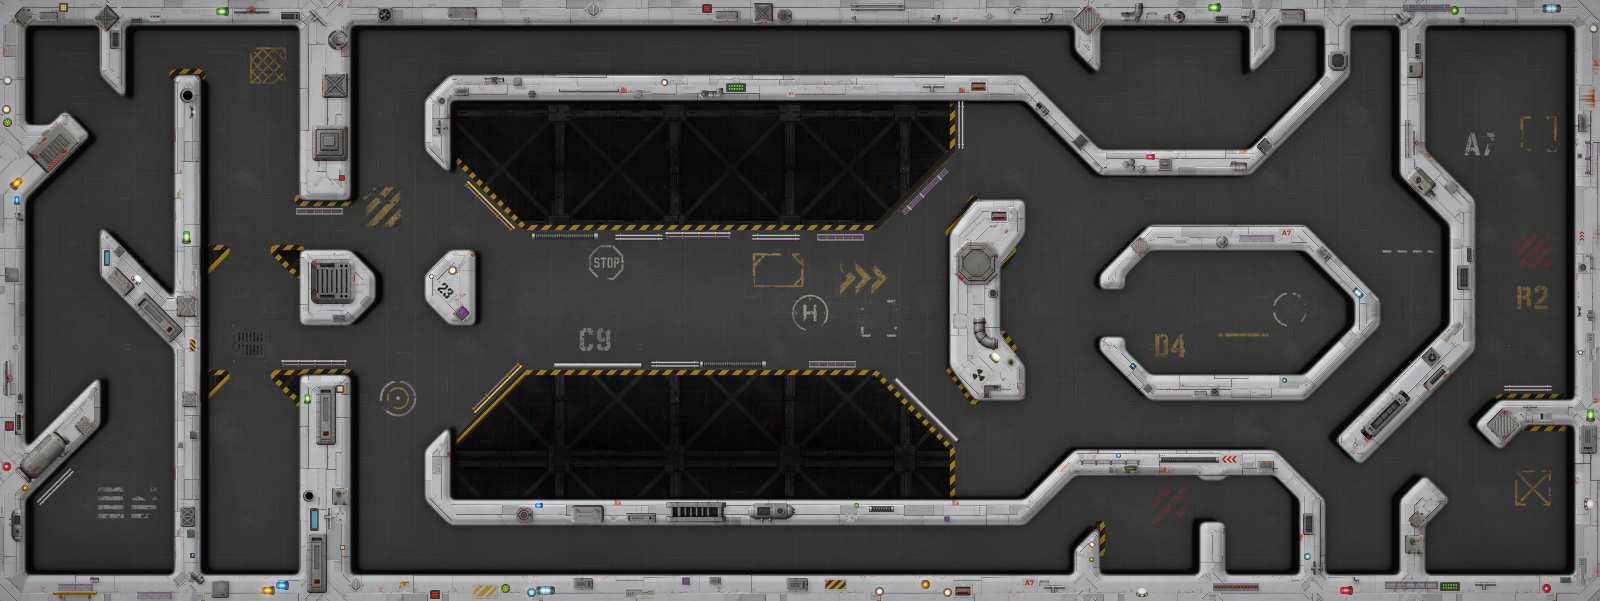
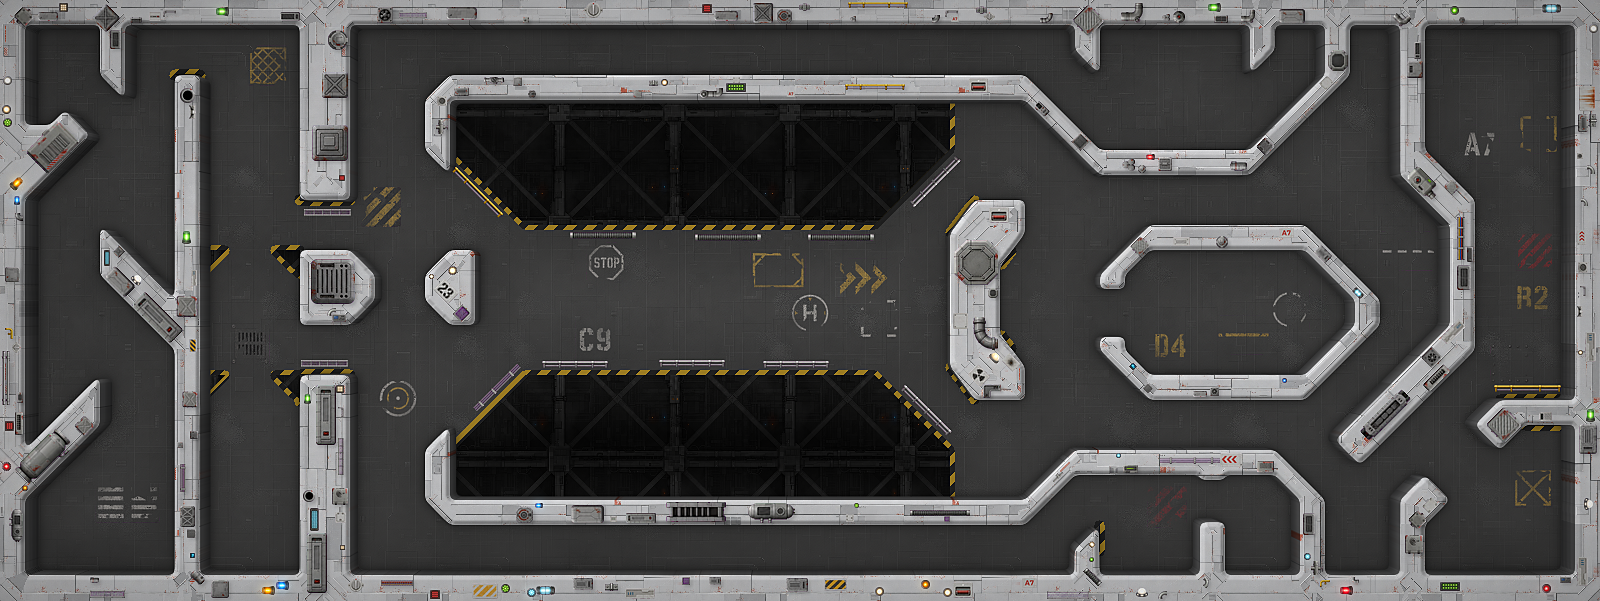
Art pipeline: crisp edges, textured stepped wall sides, stripe options, rails per edge, re-place by type
- tools/art/options.json: the bake's options and defaults (edges, sides, hazard
  stripes), overridable per level in level.json art; the editor shows a field
  for each in the Art pipeline section.
- Wall mask keeps a ~1 px anti-aliased edge after rounding, plus an unsharp pass.
- Wall sides are darkened copies of the wall art scaled toward a camera point,
  as the originals were made, instead of flat black.
- One rail sprite per continuous chasm edge.
- bake.py --only / editor checkboxes: re-place chosen decor types, keep the rest.
- Bridge re-baked (rails re-placed for the per-edge rule).

Claude-Session: https://claude.ai/code/session_01H47hBDPQBM8s5zFvCsXCoj

diff --git a/src/editor/editor.js b/src/editor/editor.js
@@ -48,6 +48,8 @@ const NODE = 'game objects/node';
 // decor (decor.json) is baked into the background by tools/art/bake.py; sprites live here
 const DECOR_DIR = 'tools/art/parts/decor/';
 // how each decor category is drawn by the bake when placed by hand
+// the decor types the art pipeline places (tools/art/bake.py CATEGORIES)
+const DECOR_TYPES = ['floorpaint', 'rails', 'greebles', 'vents', 'wallmarks', 'lights'];
 const DECOR_DEFAULTS = { floorpaint: { effect: 'paint' }, greebles: { effect: 'shadow', strength: 0.35 }, greebles2: { effect: 'shadow', strength: 0.35 }, vents: { effect: 'shadow', strength: 0.3 }, rails: { effect: 'shadow', strength: 0.25 }, lights: { effect: 'glow', strength: 0.9 } };
 const T = (d) => d - 16384; // timeline depths sit 16384 below script depths, as in Flash
 const TOOLS = [
@@ -1381,11 +1383,21 @@ class Editor {
         el('button', { onclick: () => this.change(['level.json'], () => { L.settings = { ...(L.settings || {}), art: { kit: 'bridge', seed: 1 + Math.floor(Math.random() * 9999) } }; }, { reload: false }) }, 'Generate this level\'s art'));
       return box;
     }
-    const setArt = (o) => this.change(['level.json'], () => { L.settings = { ...L.settings, art: { ...art, ...o } }; }, { reload: false });
+    const setArt = (o) => this.change(['level.json'], () => {
+      const a = { ...art, ...o };
+      for (const k of Object.keys(a)) if (a[k] === undefined) delete a[k];
+      L.settings = { ...L.settings, art: a };
+    }, { reload: false });
     const running = this.art || (this.server && this.server.art);
     const off = !this.writable || !!running;
     const btn = (label, step, tip) => el('button', { disabled: off, title: tip, onclick: () => this.runArt(step) }, label);
     const n = this.layerCount('decor');
+    if (!this.artOptions) {
+      this.artOptions = fetch('tools/art/options.json', { cache: 'no-store' }).then((r) => r.json())
+        .then((j) => { this.artOptions = j; this.refreshPanel(); }).catch((e) => { this.artOptions = {}; this.status('Art options: ' + e.message, true); });
+    }
+    const only = this.placeOnly ||= new Set(DECOR_TYPES);
+    const all = only.size === DECOR_TYPES.length;
     box.append(
       el('div', { class: 'le-row' }, 'Kit ', el('select', { title: 'the tile set: floor, wall and chasm textures and the decor sheets (tools/art/parts)', onchange: (ev) => setArt({ kit: ev.target.value }) },
         ...['bridge'].map((kit) => el('option', { value: kit, selected: art.kit === kit }, kit))),
@@ -1394,13 +1406,37 @@ class Editor {
       el('div', { class: 'le-row' },
         btn('Bake art', 'bake', 'Save, then redraw background.png from the collision map and decor.json as they are'),
         this.confirmPlace
-          ? el('button', { disabled: off, class: 'le-danger', title: 'decor.json is replaced; Undo cannot bring the old layout back (git can)', onclick: () => { this.confirmPlace = false; this.runArt('all'); } }, `Replace ${n} decor and bake?`)
-          : el('button', { disabled: off, title: 'Save, then lay out new decor from the seed (replacing decor.json, hand edits too) and bake', onclick: () => { this.confirmPlace = true; this.refreshPanel(); } }, 'Re-place decor + bake'),
+          ? el('button', { disabled: off, class: 'le-danger', title: 'decor.json is replaced; Undo cannot bring the old layout back (git can)', onclick: () => { this.confirmPlace = false; this.runArt('all'); } }, all ? `Replace all ${n} decor and bake?` : `Replace ${this.list('decor').filter((e) => only.has(decorType(e.sprite))).length} ${[...only].join(', ')} and bake?`)
+          : el('button', { disabled: off || !only.size, title: 'Save, then lay out new decor of the ticked types from the seed (replacing those in decor.json, hand edits too; the other types stay) and bake', onclick: () => { this.confirmPlace = true; this.refreshPanel(); } }, all ? 'Re-place decor + bake' : `Re-place ${only.size} type${only.size > 1 ? 's' : ''} + bake`),
         this.confirmPlace ? el('button', { onclick: () => { this.confirmPlace = false; this.refreshPanel(); } }, 'Cancel') : ''),
+      el('div', { class: 'le-row le-types', title: 'which decor types Re-place lays out again; the others keep their placements' }, 'Re-place: ',
+        ...DECOR_TYPES.map((t) => el('label', {}, el('input', { type: 'checkbox', checked: only.has(t), onchange: (ev) => { if (ev.target.checked) only.add(t); else only.delete(t); this.confirmPlace = false; this.refreshPanel(); } }), t))),
       el('div', { class: 'le-tip' }, running ? `Running ${running.step === 'all' ? 're-place + bake' : running.step} on ${running.level || L.folder}… (about 10 s)`
         : !this.writable ? 'Needs the local server (npm run edit).'
           : `Runs tools/art/bake.py on your machine, rebuilds, and reloads the editor with the new art. ${n} decor placements; show them with K.`));
     if (this.artLog) box.append(el('pre', { class: 'le-artlog' }, this.artLog));
+    // the bake's options (tools/art/options.json), saved in level.json art.<group>.<option>
+    if (this.artOptions && !(this.artOptions instanceof Promise)) {
+      for (const [group, spec] of Object.entries(this.artOptions)) {
+        const cur = art[group] || {};
+        const changed = Object.keys(cur).length;
+        const set = (key, v) => setArt({ [group]: (() => { const o = { ...cur }; if (v === spec.options[key].default) delete o[key]; else o[key] = v; return Object.keys(o).length ? o : undefined; })() });
+        const rows = Object.entries(spec.options).map(([key, o]) => {
+          const v = cur[key] ?? o.default;
+          const input = o.type === 'colour'
+            ? el('input', { type: 'color', value: v, onchange: (ev) => set(key, ev.target.value) })
+            : o.type === 'text'
+              ? el('input', { value: v, placeholder: 'none', onchange: (ev) => set(key, ev.target.value.trim()) })
+              : el('input', { type: 'number', min: o.min, max: o.max, step: o.step, value: v, onchange: (ev) => { const x = +ev.target.value; if (isFinite(x)) set(key, Math.min(o.max ?? x, Math.max(o.min ?? x, x))); } });
+          return el('label', { class: 'le-opt' + (key in cur ? ' set' : ''), title: (o.tip || '') + ` (default ${o.default === '' ? 'none' : o.default})` }, o.label, input);
+        });
+        box.append(el('details', { class: 'le-optgroup', open: !!(this.openOpts && this.openOpts.has(group)), ontoggle: (ev) => { (this.openOpts ||= new Set())[ev.target.open ? 'add' : 'delete'](group); } },
+          el('summary', {}, spec.label + (changed ? ` (${changed} changed)` : '')),
+          spec.tip ? el('div', { class: 'le-tip' }, spec.tip) : '', el('div', { class: 'le-opts' }, ...rows),
+          changed ? el('button', { onclick: () => setArt({ [group]: undefined }) }, 'Defaults') : ''));
+      }
+      box.append(el('div', { class: 'le-tip' }, 'Options take effect on the next Bake art.'));
+    }
     return box;
   }
 
@@ -1414,7 +1450,7 @@ class Editor {
     this.art = { step, level: L.folder, started: Date.now() };
     this.status(`Art: running ${step} on ${L.folder}…`);
     this.refreshPanel();
-    const r = await fetch('__art', { method: 'POST', headers: { 'Content-Type': 'application/json' }, body: JSON.stringify({ level: L.folder, step }) })
+    const r = await fetch('__art', { method: 'POST', headers: { 'Content-Type': 'application/json' }, body: JSON.stringify({ level: L.folder, step, only: step !== 'bake' && this.placeOnly && this.placeOnly.size < DECOR_TYPES.length ? [...this.placeOnly] : undefined }) })
       .then((x) => x.json()).catch((e) => ({ ok: false, log: e.message }));
     this.art = null;
     if (!r.ok) {
@@ -1570,6 +1606,11 @@ function decorBounds(e, size) {
   const w = size.w * s, h = size.h * s;
   const bw = Math.abs(w * Math.cos(a)) + Math.abs(h * Math.sin(a)), bh = Math.abs(w * Math.sin(a)) + Math.abs(h * Math.cos(a));
   return [e.x - bw / 2, e.y - bh / 2, e.x + bw / 2, e.y + bh / 2];
+}
+
+function decorType(sprite) {
+  const c = sprite.split('/')[0];
+  return c === 'greebles2' ? 'greebles' : c;
 }
 
 function decorColour(sprite) {
@@ -1734,6 +1775,13 @@ const CSS = `
 #level-editor .le-decor-pal img, #level-editor .le-decor-thumb { max-width: 100%; max-height: 100%; object-fit: contain; display: block; margin: auto; }
 #level-editor .le-decor-thumb { width: 48px; height: 48px; background: #1b2b2b; border-radius: 3px; }
 #level-editor .le-editing { color: #4fc; }
+#level-editor .le-types { flex-wrap: wrap; gap: 2px 8px; font-size: 11px; }
+#level-editor .le-optgroup { margin: 4px 0; }
+#level-editor .le-optgroup summary { font-size: 12px; color: #9cd; }
+#level-editor .le-opts { display: grid; grid-template-columns: 1fr 1fr; gap: 3px 8px; }
+#level-editor .le-opt { display: flex; flex-direction: column; font-size: 10px; color: #9ab; }
+#level-editor .le-opt.set { color: #fd6; }
+#level-editor .le-opt input { width: 100%; box-sizing: border-box; }
 #level-editor .le-danger { background: #7a2a2a; color: #fff; }
 #level-editor .le-artlog { max-height: 160px; overflow: auto; white-space: pre-wrap; font-size: 10px; background: #000a; padding: 4px; color: #fcc; }
 #level-editor .le-stats div { margin: 1px 0; }

diff --git a/tools/art/bake.py b/tools/art/bake.py
@@ -62,30 +62,54 @@ def level_paths(folder):
     return d, art
 
 
+# ---------------------------------------------------------------- options
+OPTIONS = json.load(open(os.path.join(os.path.dirname(__file__), 'options.json')))
+
+
+def options(art):
+    """The art settings with every option filled in from tools/art/options.json."""
+    o = {}
+    for group, spec in OPTIONS.items():
+        given = art.get(group) or {}
+        o[group] = {k: given.get(k, v['default']) for k, v in spec['options'].items()}
+    return o
+
+
+def hex_rgb(h):
+    h = h.lstrip('#')
+    return np.array([int(h[i:i + 2], 16) / 255 for i in (0, 2, 4)], np.float32)
+
+
 # ---------------------------------------------------------------- geometry
 class Geometry:
     """Everything derived from the collision map that both steps need."""
 
-    def __init__(self, path):
+    def __init__(self, path, opts):
         with Image.open(path) as im: self.W, self.H = W, H = im.size
         self.wall, self.chasm = coverage(path, W, H)
         self.wallb, self.chasmb = self.wall > 0.5, self.chasm > 0.5
         self.yy, self.xx = np.mgrid[0:H, 0:W].astype(np.float32)
-        # rounded art mask: convex corners softened, inside corners filleted
-        self.wr = np.clip((blur(self.wall, 3.2) - 0.5) * 3.0 + 0.5, 0, 1)
+        # rounded art mask: corners rounded by blurring, then a steep ramp so the edge
+        # stays crisp (aa px of anti-aliasing, like the originals)
+        e = opts['edges']
+        if e['round'] > 0:
+            k = np.sqrt(2 * np.pi) * e['round'] / max(0.3, e['aa'])
+            self.wr = np.clip((blur(self.wall, e['round']) - 0.5) * k + 0.5, 0, 1)
+        else:
+            self.wr = self.wall.astype(np.float32)
         self.wrb = self.wr > 0.5
-        # wall sides, extruded toward the map centre
-        CX, CY, K, MAXOFF = W / 2, H / 2, 0.02, 9.0
-        vx = np.clip(K * (self.xx - CX), -MAXOFF, MAXOFF)
-        vy = np.clip(K * (self.yy - CY), -MAXOFF, MAXOFF)
-        side = np.zeros((H, W), np.float32); st = np.ones((H, W), np.float32)
-        for i in range(24, 0, -1):
-            t = i / 24
-            s = ndi.map_coordinates(self.wr, [self.yy + t * vy, self.xx + t * vx], order=1, mode='nearest')
-            st[s > 0.5] = t; side = np.maximum(side, s)
-        self.side_raw = side
-        self.side = blur(side * (1 - self.wr), 0.6)
-        self.st = st
+        # wall sides: copies of the walls scaled down step by step toward the camera point
+        sd = opts['sides']
+        self.cx, self.cy = W * sd['cx'], H * sd['cy']
+        self.steps = []          # (sample coordinates, mask) per copy, nearest first
+        side = np.zeros((H, W), np.float32)
+        for i in range(1, int(sd['steps']) + 1):
+            f = 1 + sd['scale'] * i  # sample the wall at c + f (p - c): the wall shrunk by 1/f
+            coords = [self.cy + f * (self.yy - self.cy), self.cx + f * (self.xx - self.cx)]
+            m = ndi.map_coordinates(self.wr, coords, order=1, mode='constant')
+            self.steps.append((coords, m))
+            side = np.maximum(side, m)
+        self.side = side * (1 - self.wr)
         # distance into the wall art and each wall's direction (0 horiz, 1 diag, 2 vert, 3 other diag)
         self.dist = ndi.distance_transform_edt(self.wrb).astype(np.float32)
         ny, nx = np.gradient(blur(self.dist, 4))
@@ -117,7 +141,7 @@ def tiled(g, t, scale, angle=0.0, off=(0.0, 0.0)):
     return np.stack([ndi.map_coordinates(t[..., c], [v % h, u % w], order=1, mode='grid-wrap') for c in range(3)], -1)
 
 
-def base_art(g, seed):
+def base_art(g, seed, opts):
     """Floor, chasms and walls, before decor."""
     W, H, xx, yy = g.W, g.H, g.xx, g.yy
     rng = np.random.default_rng(seed)
@@ -134,30 +158,45 @@ def base_art(g, seed):
     ch = tiled(g, chasm_t, 0.45, off=(37, 11))
     ch = ch * (0.9 - 0.5 * np.clip(inside / 70, 0, 1))[..., None]
     img = img * (1 - g.chasm[..., None]) + ch * g.chasm[..., None]
-    lip = (ndi.distance_transform_edt(~g.chasmb) <= 5) & ~g.chasmb & ~g.wallb
-    stripe = ((xx + yy) % 14 < 7)
-    lipf = blur(lip, 0.5)
-    hz = np.where(stripe[..., None], np.array([0.72, 0.56, 0.11]), np.array([0.09, 0.09, 0.09]))
-    img = img * (1 - 0.75 * lipf[..., None]) + hz * 0.75 * lipf[..., None]
-    # wall sides and ambient occlusion
+    # hazard stripes on the floor around chasms
+    hzo = opts['hazard']
+    if hzo['width'] > 0 and hzo['opacity'] > 0:
+        lip = (ndi.distance_transform_edt(~g.chasmb) <= hzo['width']) & ~g.chasmb & ~g.wallb
+        lipf = blur(lip, 0.4) * hzo['opacity']
+        a = np.radians(hzo['angle'])
+        if hzo.get('texture'):
+            hz = tiled(g, load(os.path.splitext(hzo['texture'])[0]), 1.0, a)
+        else:
+            u = xx * np.cos(a) + yy * np.sin(a)
+            stripe = (u % hzo['period']) < hzo['period'] / 2
+            hz = np.where(stripe[..., None], hex_rgb(hzo['colourA']), hex_rgb(hzo['colourB']))
+        img = img * (1 - lipf[..., None]) + hz * lipf[..., None]
+    # ambient occlusion where the walls meet the floor
     wr, side = g.wr, g.side
     ao = blur(np.maximum(side, wr), 5)
     img *= (1 - 0.5 * ao * (1 - wr) * (1 - side))[..., None]
-    scol = 0.025 + 0.05 * (1 - g.st) ** 3
-    img = img * (1 - side[..., None]) + scol[..., None] * side[..., None]
     # wall tops: the plate texture, run along each wall's direction
     top = np.zeros_like(img)
     for k in range(4):
         tk = tiled(g, wall_t, 0.33, k * np.pi / 4, off=(k * 131.0, k * 57.0))
         top += tk * (g.q == k)[..., None]
     top = top / top[g.wrb].mean() * 0.74
-    # soft bevel lit from the top-left
-    hgt = np.clip(g.dist / 7.0, 0, 1); hgt = blur(hgt * hgt * (3 - 2 * hgt), 1.2)
+    # bevel lit from the top-left, over a narrow band so the edge stays crisp
+    hgt = np.clip(g.dist / 5.0, 0, 1); hgt = blur(hgt * hgt * (3 - 2 * hgt), 0.7)
     gy, gx = np.gradient(hgt)
     nz = 0.18
     lam = (-gx * -0.55 - gy * -0.6 + nz * 0.58) / np.sqrt(gx * gx + gy * gy + nz * nz)
     top *= (0.70 + 0.42 * lam)[..., None]
-    top *= (1 - 0.18 * np.clip(1 - g.dist / 1.5, 0, 1))[..., None]   # crisp dark edge line
+    top *= (1 - 0.22 * np.clip(1 - g.dist / 1.2, 0, 1))[..., None]   # crisp dark edge line
+    # wall sides: darkened copies of the wall art, each scaled down a little more toward
+    # the camera point, deepest first, so the sides keep the plates' texture
+    sd = opts['sides']
+    for i in range(len(g.steps) - 1, -1, -1):
+        coords, m = g.steps[i]
+        copy = np.stack([ndi.map_coordinates(top[..., c], coords, order=1, mode='nearest') for c in range(3)], -1)
+        copy *= sd['darken'] * sd['fade'] ** i
+        m = m[..., None]
+        img = img * (1 - m) + copy * m
     return img * (1 - wr[..., None]) + top * wr[..., None]
 
 
@@ -191,7 +230,17 @@ PASSES = [
 ]
 
 
-def place_decor(g, seed):
+CATEGORIES = ('floorpaint', 'rails', 'greebles', 'vents', 'wallmarks', 'lights')
+
+
+def category(sprite_path):
+    c = sprite_path.split('/')[0]
+    return 'greebles' if c == 'greebles2' else c
+
+
+def place_decor(g, seed, only=None, keep=()):
+    """New decor placements. With `only` (a set of categories) just those are placed, after
+    `keep` (the existing placements of the other categories, which they avoid)."""
     index = json.load(open(os.path.join(DECOR, 'index.json')))
     cats = {c: [it['file'] for it in items] for c, items in index.items()}
     cats['greebles'] = cats.get('greebles', []) + cats.get('greebles2', [])
@@ -205,10 +254,25 @@ def place_decor(g, seed):
     surfaces['lip'] = (cd <= 16) & (cd >= 8) & ~g.wallb
     ly, lx = np.gradient(blur(cd, 3))
     orients = {'lip': ndi.median_filter(np.round((np.arctan2(ly, lx) + np.pi / 2) / (np.pi / 4)).astype(int) % 4, 5)}
+    # one rail style per continuous chasm edge: each straight run of the lip band
+    edge_ids = np.zeros((H, W), np.int32)
+    for k in range(4):
+        lab, n = ndi.label(surfaces['lip'] & (orients['lip'] == k))
+        edge_ids[lab > 0] = lab[lab > 0] + k * 100000
+    edge_pick = {}
     used = np.zeros((H, W), bool)
-    out = []
+    out = list(keep)
+    for e in keep:  # what stays takes up its space
+        try: sp = sprite(e['sprite'])
+        except OSError: continue
+        a = np.array(xform(sp, float(e.get('scale', 1)), float(e.get('rotation', 0))))[..., 3] > 40
+        sh, sw = a.shape
+        x0, y0 = int(e['x'] - sw / 2), int(e['y'] - sh / 2)
+        sx0, sy0, sx1, sy1 = max(0, -x0), max(0, -y0), min(sw, W - x0), min(sh, H - y0)
+        if sx1 > sx0 and sy1 > sy0: used[y0 + sy0:y0 + sy1, x0 + sx0:x0 + sx1] |= a[sy0:sy1, sx0:sx1]
 
     for cat, count, surf, short, long_max, o in PASSES:
+        if only is not None and cat not in only: continue
         surface = surfaces[surf]
         files = [f for f in cats.get(cat, []) if max(sprite(f).size) >= o.get('min_aspect', 0) * min(sprite(f).size)]
         pts = np.argwhere(surface)
@@ -223,6 +287,8 @@ def place_decor(g, seed):
             if isinstance(short, tuple): s_ = min(s_, short[2])
             if s_ < 5: continue
             k = int(rng.integers(len(files)))
+            if surf == 'lip' and edge_ids[cy, cx]:  # the edge's rail, picked by its first one
+                k = edge_pick.setdefault(int(edge_ids[cy, cx]), k)
             sp = sprite(files[k])
             w, h = sp.size
             turn = 90 if h > w and along else 0
@@ -259,9 +325,9 @@ def worn(h, w, seed):
     return chips * scuff * speck
 
 
-def bake(g, decor, seed):
+def bake(g, decor, seed, opts):
     W, H = g.W, g.H
-    img = np.clip(base_art(g, seed), 0, 1)
+    img = np.clip(base_art(g, seed, opts), 0, 1)
     shadow = np.zeros((H, W), np.float32)
     bloom = np.zeros((H, W, 3), np.float32)
     for i, e in enumerate(decor):
@@ -296,6 +362,8 @@ def bake(g, decor, seed):
     img *= (1 - 0.5 * blur(np.clip(ndi.shift(shadow, (2, 2), order=0), 0, 1), 1.5))[..., None]
     img += np.stack([blur(bloom[..., c], 5) for c in range(3)], -1) * 1.5
     img *= (1 - 0.12 * (((g.xx / W - 0.5) * 2) ** 4 + ((g.yy / H - 0.5) * 2) ** 4))[..., None]
+    sh = opts['edges']['sharpen']
+    if sh > 0: img = img + sh * (img - np.stack([blur(img[..., c], 1.0) for c in range(3)], -1))
     return (np.clip(img, 0, 1) * 255 + 0.5).astype(np.uint8)
 
 
@@ -311,18 +379,27 @@ def main():
     ap.add_argument('level', help='level folder, e.g. 03_Bridge')
     ap.add_argument('step', choices=['place', 'bake', 'all'])
     ap.add_argument('--seed', type=int, help='seed for decor placement (default: level.json art.seed)')
+    ap.add_argument('--only', help='place only these decor types, comma separated (' + ', '.join(CATEGORIES) + '); the others in decor.json are kept')
     args = ap.parse_args()
     d, art = level_paths(args.level)
+    opts = options(art)
     seed = int(art.get('seed', 2012))
-    g = Geometry(os.path.join(d, 'collision.png'))
+    g = Geometry(os.path.join(d, 'collision.png'), opts)
     decor_path = os.path.join(d, 'decor.json')
     if args.step in ('place', 'all'):
-        decor = place_decor(g, args.seed if args.seed is not None else seed)
+        only, keep = None, []
+        if args.only:
+            only = {c.strip() for c in args.only.split(',') if c.strip()}
+            bad = only - set(CATEGORIES)
+            if bad: sys.exit(f'unknown decor types: {", ".join(sorted(bad))}; known: {", ".join(CATEGORIES)}')
+            old = json.load(open(decor_path)) if os.path.exists(decor_path) else []
+            keep = [e for e in old if category(e['sprite']) not in only]
+        decor = place_decor(g, args.seed if args.seed is not None else seed, only, keep)
         write_decor(decor_path, decor)
         print(f'wrote levels/{args.level}/decor.json ({len(decor)} placements)')
     if args.step in ('bake', 'all'):
         decor = json.load(open(decor_path)) if os.path.exists(decor_path) else []
-        out = bake(g, decor, seed)
+        out = bake(g, decor, seed, opts)
         Image.fromarray(out, 'RGB').convert('RGBA').save(os.path.join(d, 'background.png'), optimize=True)
         print(f'wrote levels/{args.level}/background.png ({len(decor)} decor placements)')
 

diff --git a/levels/README.md b/levels/README.md
@@ -87,4 +87,8 @@ A level with `art` in its `level.json` gets its `background.png` generated from 
 1. **place**: lays out decor from the seed (floor paint, rails on chasm lips, greebles, vents, wall marks, lights) and writes `decor.json`, replacing what was there.
 2. **bake**: draws the floor, chasm and walls of the kit from `collision.png`, then each `decor.json` placement with its effect, and writes `background.png`.
 
-`python tools/art/bake.py 03_Bridge bake` (or `place`, or `all`; `--seed N` overrides the seed). In the editor, with `npm run edit`, the **Art pipeline** section runs them on your machine: **Bake art** saves, bakes and rebuilds, so walls you drew and decor you moved show up in the art; **Re-place decor + bake** lays out fresh decor from the seed (🎲 picks a new one) and bakes. Either way the editor then reloads with the new art, on the same level and view. A level without `art` offers a button to start generating its art (the old background stays in git).
+`python tools/art/bake.py 03_Bridge bake` (or `place`, or `all`; `--seed N` overrides the seed; `--only lights,rails` re-places just those types and keeps the rest of `decor.json`). Rails along one continuous chasm edge all use the same sprite.
+
+**Options.** `tools/art/options.json` lists the bake's options with their defaults: wall edges (corner rounding, edge softness, sharpen), wall sides (built like the originals: the wall art copied, darkened and scaled down a little toward a camera point, several times over; copies, scale per copy, brightness, fade, camera point) and chasm stripes (width, period, angle, two colours, opacity, or a texture from `tools/art/parts`). A level overrides them in `level.json`, for example `"art": {"kit": "bridge", "seed": 2012, "sides": {"steps": 14}}`. The editor's Art pipeline section has a field for each (changed ones in yellow) and checkboxes for which decor types Re-place lays out again.
+
+ In the editor, with `npm run edit`, the **Art pipeline** section runs them on your machine: **Bake art** saves, bakes and rebuilds, so walls you drew and decor you moved show up in the art; **Re-place decor + bake** lays out fresh decor from the seed (🎲 picks a new one) and bakes. Either way the editor then reloads with the new art, on the same level and view. A level without `art` offers a button to start generating its art (the old background stays in git).
